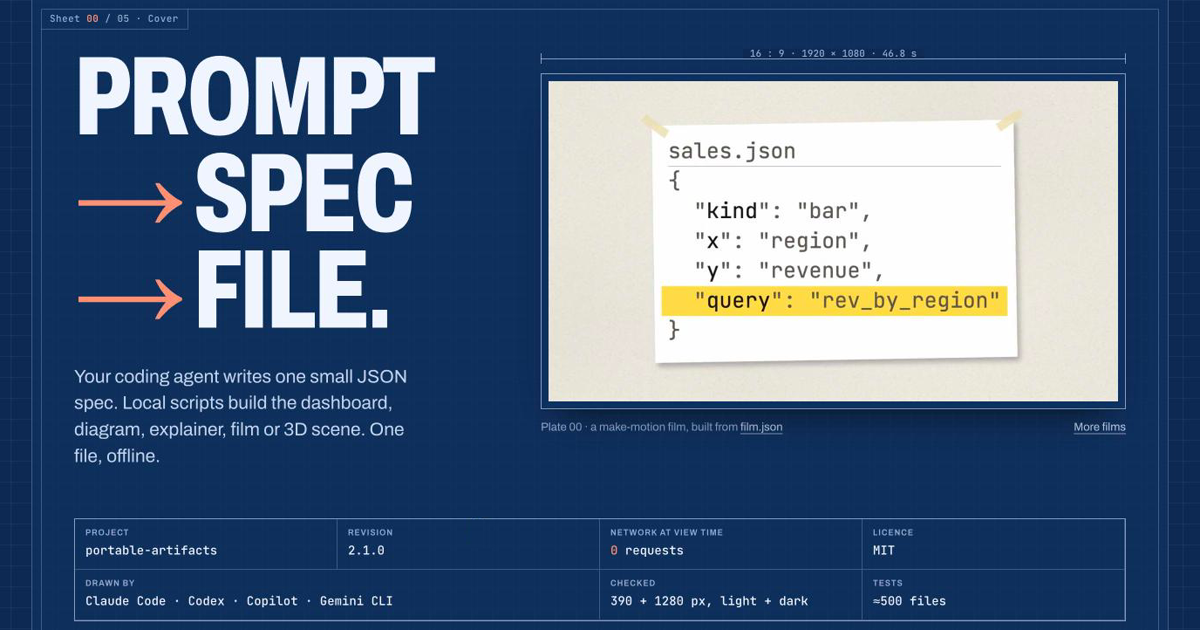
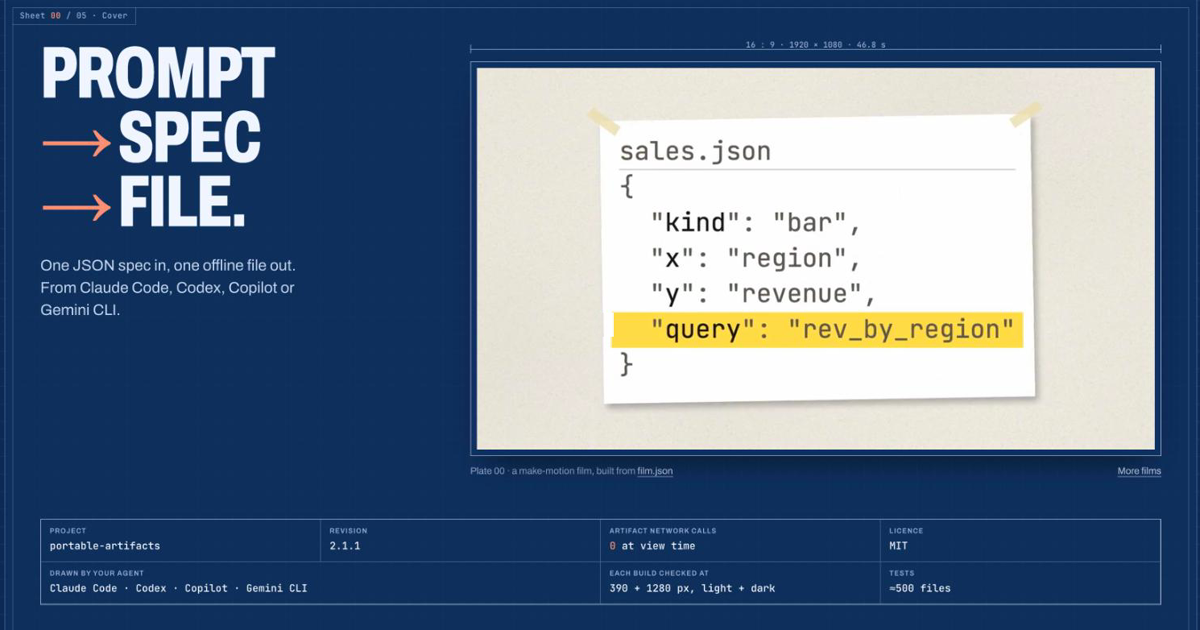
fix(site): finish-review pass on the cover and register
The cover names the agent hosts in the first viewport and the plate is
now louder than the title. Title-block cells read as claims about the
artifacts. Dashboards are labelled sample data. The register band gains
the explainer tile. Narrow screens keep the sheet index as a second
row. Spec lines are buttons with aria-pressed; group headings follow
the h1. og.png shows revision 2.1.1.

diff --git a/docs/index.html b/docs/index.html
@@ -72,7 +72,7 @@ leader lines; seed 149445c2.
           <span><span class="arrow" aria-hidden="true">&rarr;</span>Spec</span>
           <span><span class="arrow" aria-hidden="true">&rarr;</span>File.</span>
         </h1>
-        <p class="lede">Your coding agent writes one small JSON spec. Local scripts build the dashboard, diagram, explainer, film or 3D scene. One file, offline.</p>
+        <p class="lede">One JSON spec in, one offline file out.<br>From Claude Code, Codex, Copilot or Gemini CLI.</p>
       </div>
 
       <figure class="plate">
@@ -93,14 +93,14 @@ leader lines; seed 149445c2.
         <div class="stamp-head"><span>Issued for install</span><span>MIT</span></div>
         <section id="quick-install" aria-label="Install">
           <div class="grp">
-            <h3>Claude Code</h3>
+            <h2 class="grp-h">Claude Code</h2>
             <div class="code cmds">
               <div class="cl"><code class="ct">/plugin marketplace add abhijitbansal/portable-artifacts</code><button class="copy" type="button" data-copy="/plugin marketplace add abhijitbansal/portable-artifacts">copy</button></div>
               <div class="cl"><code class="ct">/plugin install portable-artifacts@portable-artifacts</code><button class="copy" type="button" data-copy="/plugin install portable-artifacts@portable-artifacts">copy</button></div>
             </div>
           </div>
           <div class="grp">
-            <h3>Codex, Copilot, Gemini CLI and others</h3>
+            <h2 class="grp-h">Codex, Copilot, Gemini CLI and others</h2>
             <div class="code cmds">
               <div class="cl"><code class="ct">npx skills add abhijitbansal/portable-artifacts --skill make-dashboard make-diagram make-explainer make-motion make-scene</code><button class="copy" type="button" data-copy="npx skills add abhijitbansal/portable-artifacts --skill make-dashboard make-diagram make-explainer make-motion make-scene">copy</button></div>
             </div>
@@ -113,10 +113,10 @@ leader lines; seed 149445c2.
     <dl class="tblock">
       <div><dt>Project</dt><dd>portable-artifacts</dd></div>
       <div><dt>Revision</dt><dd>2.1.1</dd></div>
-      <div><dt>Network at view time</dt><dd><span class="z">0</span> requests</dd></div>
+      <div><dt>Artifact network calls</dt><dd><span class="z">0</span> at view time</dd></div>
       <div><dt>Licence</dt><dd>MIT</dd></div>
-      <div class="wide"><dt>Drawn by</dt><dd>Claude Code · Codex · Copilot · Gemini CLI</dd></div>
-      <div><dt>Checked</dt><dd>390 + 1280 px, light + dark</dd></div>
+      <div class="wide"><dt>Drawn by your agent</dt><dd>Claude Code · Codex · Copilot · Gemini CLI</dd></div>
+      <div><dt>Each build checked at</dt><dd>390 + 1280 px, light + dark</dd></div>
       <div><dt>Tests</dt><dd>&asymp;500 files</dd></div>
     </dl>
   </section>
@@ -135,14 +135,14 @@ leader lines; seed 149445c2.
         <div class="spec-head"><span>dashboard.json · 3.1 KB</span><a href="showcase/portable-artifacts/gallery/product-performance/dashboard.json">full spec</a></div>
         <ol aria-label="Excerpt of dashboard.json. Lines with a number point at the dashboard.">
           <li>{</li>
-          <li tabindex="0" data-tag="1" aria-label="title: Product performance, the page title">  <span class="k">"title"</span>: <span class="s">"Product performance"</span>,</li>
+          <li tabindex="0" role="button" aria-pressed="false" data-tag="1" aria-label="title: Product performance, the page title">  <span class="k">"title"</span>: <span class="s">"Product performance"</span>,</li>
           <li>  <span class="k">"sources"</span>: { <span class="k">"sales"</span>: { <span class="k">"type"</span>: <span class="s">"csv"</span>, … } },</li>
-          <li tabindex="0" data-tag="2" aria-label="query rev_by_product_region, shown under its chart">  <span class="k">"queries"</span>: { <span class="k">"rev_by_product_region"</span>:</li>
+          <li tabindex="0" role="button" aria-pressed="false" data-tag="2" aria-label="query rev_by_product_region, shown under its chart">  <span class="k">"queries"</span>: { <span class="k">"rev_by_product_region"</span>:</li>
           <li>    <span class="s">"SELECT product, region, SUM(amount) …"</span> },</li>
           <li>  <span class="k">"kpis"</span>: [</li>
-          <li tabindex="0" data-tag="3" aria-label="KPI Revenue, formatted as currency">    { <span class="k">"title"</span>: <span class="s">"Revenue"</span>, <span class="k">"format"</span>: <span class="s">"currency"</span> }, … ],</li>
+          <li tabindex="0" role="button" aria-pressed="false" data-tag="3" aria-label="KPI Revenue, formatted as currency">    { <span class="k">"title"</span>: <span class="s">"Revenue"</span>, <span class="k">"format"</span>: <span class="s">"currency"</span> }, … ],</li>
           <li>  <span class="k">"charts"</span>: [{</li>
-          <li tabindex="0" data-tag="4" aria-label="chart Revenue by product and region">    <span class="k">"title"</span>: <span class="s">"Revenue by product and region"</span>,</li>
+          <li tabindex="0" role="button" aria-pressed="false" data-tag="4" aria-label="chart Revenue by product and region">    <span class="k">"title"</span>: <span class="s">"Revenue by product and region"</span>,</li>
           <li>    <span class="k">"vegaLite"</span>: { <span class="k">"mark"</span>: <span class="s">"bar"</span>, … } }]</li>
           <li>}</li>
         </ol>
@@ -159,7 +159,7 @@ leader lines; seed 149445c2.
             <span class="tag" data-tag="4" style="left:32.5%;top:38.5%">4</span>
           </div>
         </div>
-        <figcaption><span>Plate 01 · Product performance</span><a href="showcase/portable-artifacts/gallery/product-performance/index.html">Open the live page</a></figcaption>
+        <figcaption><span>Plate 01 · Product performance, sample data</span><a href="showcase/portable-artifacts/gallery/product-performance/index.html">Open the live page</a></figcaption>
       </figure>
     </div>
     <dl class="tblock sk-facts">
@@ -182,15 +182,15 @@ leader lines; seed 149445c2.
         <div class="spec-head"><span>diagram.json · 3.2 KB</span><a href="showcase/portable-artifacts/gallery/cloud-architecture/diagram.json">full spec</a></div>
         <ol aria-label="Excerpt of diagram.json. Lines with a number point at the diagram.">
           <li>{</li>
-          <li tabindex="0" data-tag="1" aria-label="title: Orders across two clouds">  <span class="k">"title"</span>: <span class="s">"Orders across two clouds"</span>,</li>
+          <li tabindex="0" role="button" aria-pressed="false" data-tag="1" aria-label="title: Orders across two clouds">  <span class="k">"title"</span>: <span class="s">"Orders across two clouds"</span>,</li>
           <li>  <span class="k">"type"</span>: <span class="s">"architecture"</span>,</li>
           <li>  <span class="k">"groups"</span>: [ …,</li>
-          <li tabindex="0" data-tag="2" aria-label="group Google Cloud">    { <span class="k">"id"</span>: <span class="s">"gcp"</span>, <span class="k">"label"</span>: <span class="s">"Google Cloud"</span> } ],</li>
+          <li tabindex="0" role="button" aria-pressed="false" data-tag="2" aria-label="group Google Cloud">    { <span class="k">"id"</span>: <span class="s">"gcp"</span>, <span class="k">"label"</span>: <span class="s">"Google Cloud"</span> } ],</li>
           <li>  <span class="k">"nodes"</span>: [ …,</li>
-          <li tabindex="0" data-tag="3" aria-label="node Invoice queue, a queue">    { <span class="k">"label"</span>: <span class="s">"Invoice queue"</span>, <span class="k">"kind"</span>: <span class="s">"queue"</span> },</li>
-          <li tabindex="0" data-tag="4" aria-label="node Invoice service on Google Cloud">    { <span class="k">"label"</span>: <span class="s">"Invoice service"</span>, <span class="k">"group"</span>: <span class="s">"gcp"</span> } ],</li>
+          <li tabindex="0" role="button" aria-pressed="false" data-tag="3" aria-label="node Invoice queue, a queue">    { <span class="k">"label"</span>: <span class="s">"Invoice queue"</span>, <span class="k">"kind"</span>: <span class="s">"queue"</span> },</li>
+          <li tabindex="0" role="button" aria-pressed="false" data-tag="4" aria-label="node Invoice service on Google Cloud">    { <span class="k">"label"</span>: <span class="s">"Invoice service"</span>, <span class="k">"group"</span>: <span class="s">"gcp"</span> } ],</li>
           <li>  <span class="k">"stories"</span>: [ … <span class="k">"beats"</span>: [ …,</li>
-          <li tabindex="0" data-tag="5" aria-label="story beat The queue hands over">    { <span class="k">"title"</span>: <span class="s">"The queue hands over"</span> } ]</li>
+          <li tabindex="0" role="button" aria-pressed="false" data-tag="5" aria-label="story beat The queue hands over">    { <span class="k">"title"</span>: <span class="s">"The queue hands over"</span> } ]</li>
           <li>}</li>
         </ol>
         <p class="spec-note">No coordinates: ELK lays it out.</p>
@@ -230,13 +230,13 @@ leader lines; seed 149445c2.
         <div class="spec-head"><span>explainer.json · 2.9 KB</span><a href="showcase/portable-artifacts/gallery/how-it-works/explainer.json">full spec</a></div>
         <ol aria-label="Excerpt of explainer.json. Lines with a number point at the page.">
           <li>{</li>
-          <li tabindex="0" data-tag="1" aria-label="title of the page">  <span class="k">"title"</span>: <span class="s">"How portable-artifacts turns …"</span>,</li>
-          <li tabindex="0" data-tag="2" aria-label="theme dusk, which draws the title art">  <span class="k">"theme"</span>: <span class="s">"dusk"</span>,</li>
+          <li tabindex="0" role="button" aria-pressed="false" data-tag="1" aria-label="title of the page">  <span class="k">"title"</span>: <span class="s">"How portable-artifacts turns …"</span>,</li>
+          <li tabindex="0" role="button" aria-pressed="false" data-tag="2" aria-label="theme dusk, which draws the title art">  <span class="k">"theme"</span>: <span class="s">"dusk"</span>,</li>
           <li>  <span class="k">"meta"</span>: {</li>
-          <li tabindex="0" data-tag="3" aria-label="meta date and status chips">    <span class="k">"date"</span>: <span class="s">"2026-11-20"</span>, <span class="k">"status"</span>: <span class="s">"Release 2.1.0"</span> },</li>
+          <li tabindex="0" role="button" aria-pressed="false" data-tag="3" aria-label="meta date and status chips">    <span class="k">"date"</span>: <span class="s">"2026-11-20"</span>, <span class="k">"status"</span>: <span class="s">"Release 2.1.0"</span> },</li>
           <li>  <span class="k">"sections"</span>: [{</li>
-          <li tabindex="0" data-tag="4" aria-label="a tldr section labelled The idea">    <span class="k">"type"</span>: <span class="s">"tldr"</span>, <span class="k">"label"</span>: <span class="s">"The idea"</span>,</li>
-          <li tabindex="0" data-tag="5" aria-label="the section's supporting points">    <span class="k">"points"</span>: [ <span class="s">"Five skills: dashboards, …"</span>, … ]</li>
+          <li tabindex="0" role="button" aria-pressed="false" data-tag="4" aria-label="a tldr section labelled The idea">    <span class="k">"type"</span>: <span class="s">"tldr"</span>, <span class="k">"label"</span>: <span class="s">"The idea"</span>,</li>
+          <li tabindex="0" role="button" aria-pressed="false" data-tag="5" aria-label="the section's supporting points">    <span class="k">"points"</span>: [ <span class="s">"Five skills: dashboards, …"</span>, … ]</li>
           <li>  }, … ]</li>
           <li>}</li>
         </ol>
@@ -278,10 +278,10 @@ leader lines; seed 149445c2.
         <ol aria-label="Excerpt of film.json. Lines with a number jump the film to that shot.">
           <li>{ <span class="k">"version"</span>: 2, <span class="k">"look"</span>: <span class="s">"poster"</span>, <span class="k">"format"</span>: <span class="s">"16:9"</span>,</li>
           <li>  <span class="k">"shots"</span>: [</li>
-          <li tabindex="0" data-tag="1" data-t="0.4" aria-label="shot idea, a statement; jumps the film to 0 seconds">    { <span class="k">"id"</span>: <span class="s">"idea"</span>, <span class="k">"show"</span>: <span class="s">"statement"</span> },</li>
-          <li tabindex="0" data-tag="2" data-t="3.8" aria-label="shot flow, a diagram; jumps to 4 seconds">    { <span class="k">"id"</span>: <span class="s">"flow"</span>, <span class="k">"show"</span>: <span class="s">"diagram"</span> },</li>
-          <li tabindex="0" data-tag="3" data-t="8.4" aria-label="shot shot, a code card; jumps to 8 seconds">    { <span class="k">"id"</span>: <span class="s">"shot"</span>, <span class="k">"show"</span>: <span class="s">"code"</span> },</li>
-          <li tabindex="0" data-tag="4" data-t="12.4" aria-label="shot close, the end card; jumps to 12 seconds">    { <span class="k">"id"</span>: <span class="s">"close"</span>, <span class="k">"show"</span>: <span class="s">"end"</span>,</li>
+          <li tabindex="0" role="button" aria-pressed="false" data-tag="1" data-t="0.4" aria-label="shot idea, a statement; jumps the film to 0 seconds">    { <span class="k">"id"</span>: <span class="s">"idea"</span>, <span class="k">"show"</span>: <span class="s">"statement"</span> },</li>
+          <li tabindex="0" role="button" aria-pressed="false" data-tag="2" data-t="3.8" aria-label="shot flow, a diagram; jumps to 4 seconds">    { <span class="k">"id"</span>: <span class="s">"flow"</span>, <span class="k">"show"</span>: <span class="s">"diagram"</span> },</li>
+          <li tabindex="0" role="button" aria-pressed="false" data-tag="3" data-t="8.4" aria-label="shot shot, a code card; jumps to 8 seconds">    { <span class="k">"id"</span>: <span class="s">"shot"</span>, <span class="k">"show"</span>: <span class="s">"code"</span> },</li>
+          <li tabindex="0" role="button" aria-pressed="false" data-tag="4" data-t="12.4" aria-label="shot close, the end card; jumps to 12 seconds">    { <span class="k">"id"</span>: <span class="s">"close"</span>, <span class="k">"show"</span>: <span class="s">"end"</span>,</li>
           <li>      <span class="k">"say"</span>: <span class="s">"Your first film is one file away."</span> }</li>
           <li>  ]</li>
           <li>}</li>
@@ -326,11 +326,11 @@ leader lines; seed 149445c2.
         <ol aria-label="Excerpt of scene.json. Lines with a number point at the scene.">
           <li>{</li>
           <li>  <span class="k">"title"</span>: <span class="s">"Commits per folder, last 6 weeks"</span>,</li>
-          <li tabindex="0" data-tag="1" aria-label="world: city, one tower per row">  <span class="k">"world"</span>: <span class="s">"city"</span>,</li>
+          <li tabindex="0" role="button" aria-pressed="false" data-tag="1" aria-label="world: city, one tower per row">  <span class="k">"world"</span>: <span class="s">"city"</span>,</li>
           <li>  <span class="k">"data"</span>: { <span class="k">"rows"</span>: [ …,</li>
-          <li tabindex="0" data-tag="2" aria-label="a row: group web, week 32, 22 commits">    { <span class="k">"group"</span>: <span class="s">"web"</span>, <span class="k">"t"</span>: <span class="s">"2026-W32"</span>, <span class="k">"value"</span>: 22 },</li>
+          <li tabindex="0" role="button" aria-pressed="false" data-tag="2" aria-label="a row: group web, week 32, 22 commits">    { <span class="k">"group"</span>: <span class="s">"web"</span>, <span class="k">"t"</span>: <span class="s">"2026-W32"</span>, <span class="k">"value"</span>: 22 },</li>
           <li>    … ] },</li>
-          <li tabindex="0" data-tag="3" aria-label="the camera tour">  <span class="k">"tour"</span>: [</li>
+          <li tabindex="0" role="button" aria-pressed="false" data-tag="3" aria-label="the camera tour">  <span class="k">"tour"</span>: [</li>
           <li>    { <span class="k">"title"</span>: <span class="s">"Web spikes in week 32"</span>, <span class="k">"focus"</span>: [<span class="s">"web"</span>] }</li>
           <li>  ]</li>
           <li>}</li>
@@ -368,7 +368,7 @@ leader lines; seed 149445c2.
       <ol>
         <li><b>Offline by construction</b><span>Every page carries <code>default-src 'none'</code>. Specs cannot name a remote URL.</span></li>
         <li><b>Spec in, file out</b><span>The model writes the spec. Scripts validate, lay out, render and check it.</span></li>
-        <li><b>Any agent</b><span>Claude Code, Codex, Copilot and Gemini CLI, from one installer.</span></li>
+        <li><b>Any agent</b><span>One set of skills for Claude Code, Codex, Copilot and Gemini CLI.</span></li>
         <li><b>Checked, not guessed</b><span>Builds are opened at phone and desktop width, light and dark, before you see them.</span></li>
         <li><b>Open source</b><span>MIT, built on DuckDB, Vega-Lite, ELK and three.js. <a href="https://github.com/abhijitbansal/portable-artifacts/blob/main/plugins/portable-artifacts/README.md#security-model">Security model</a>.</span></li>
       </ol>
@@ -379,12 +379,13 @@ leader lines; seed 149445c2.
   <section class="sheet" id="gallery" aria-labelledby="h-reg">
     <span class="sheet-no">Register</span>
     <div class="reg-intro">
-      <h2 class="title" id="h-reg" style="font-size:clamp(40px,6vw,84px)">The register</h2>
+      <h2 class="title reg-title" id="h-reg">The register</h2>
       <p>Every output on this site is real, built by the skills, and sits next to the spec that made it. <a href="gallery.html">Open the register</a>.</p>
     </div>
-    <div class="reg" style="margin-top:28px">
+    <div class="reg reg-band">
       <figure class="reg-item"><a class="thumb" href="gallery.html#dashboards"><img src="showcase/portable-artifacts/gallery/support-ops/thumb.jpg" width="1280" height="720" loading="lazy" alt="Support operations dashboard"></a><figcaption><span class="no">R-01</span><b>Dashboards</b></figcaption></figure>
       <figure class="reg-item"><a class="thumb" href="gallery.html#diagrams"><img src="showcase/portable-artifacts/gallery/oauth-sequence/dusk/thumb.jpg" width="1280" height="720" loading="lazy" alt="Sign in with OAuth sequence diagram"></a><figcaption><span class="no">R-02</span><b>Diagrams</b></figcaption></figure>
+      <figure class="reg-item"><a class="thumb" href="gallery.html#explainers"><img src="showcase/portable-artifacts/gallery/plan-page/thumb.jpg" width="1280" height="720" loading="lazy" alt="A plan page reviewers answer on the page"></a><figcaption><span class="no">R-03</span><b>Explainers</b></figcaption></figure>
       <figure class="reg-item"><a class="thumb" href="gallery.html#films"><img src="media/thumbs/looks-marker.jpg" width="640" height="360" loading="lazy" alt="Film in the hand-drawn marker look"></a><figcaption><span class="no">R-04</span><b>Films</b></figcaption></figure>
       <figure class="reg-item"><a class="thumb" href="gallery.html#scenes"><img src="showcase/portable-artifacts/gallery/scene-galaxy/dusk/thumb.jpg" width="1280" height="720" loading="lazy" alt="Galaxy 3D scene"></a><figcaption><span class="no">R-05</span><b>3D scenes</b></figcaption></figure>
     </div>

diff --git a/docs/gallery.html b/docs/gallery.html
@@ -54,10 +54,10 @@
     <section class="reg-group" id="dashboards" aria-labelledby="g-dash">
       <h2 id="g-dash">make-dashboard <small>R-01 · 4 plates</small></h2>
       <div class="reg">
-        <figure class="reg-item"><a class="thumb" href="showcase/portable-artifacts/gallery/product-performance/index.html"><img src="showcase/portable-artifacts/gallery/product-performance/thumb.jpg" width="1280" height="720" loading="lazy" alt="Product performance dashboard"></a><figcaption><b>Product performance</b><span class="no">R-01.1</span><span class="links"><a href="showcase/portable-artifacts/gallery/product-performance/index.html">page</a><a href="showcase/portable-artifacts/gallery/product-performance/dashboard.json">spec</a><a href="showcase/portable-artifacts/gallery/product-performance/prompt.txt">prompt</a></span></figcaption></figure>
-        <figure class="reg-item"><a class="thumb" href="showcase/portable-artifacts/gallery/support-ops/index.html"><img src="showcase/portable-artifacts/gallery/support-ops/thumb.jpg" width="1280" height="720" loading="lazy" alt="Support operations dashboard"></a><figcaption><b>Support operations</b><span class="no">R-01.2</span><span class="links"><a href="showcase/portable-artifacts/gallery/support-ops/index.html">page</a><a href="showcase/portable-artifacts/gallery/support-ops/dashboard.json">spec</a><a href="showcase/portable-artifacts/gallery/support-ops/prompt.txt">prompt</a></span></figcaption></figure>
-        <figure class="reg-item"><a class="thumb" href="showcase/portable-artifacts/gallery/traffic-deep-dive/index.html"><img src="showcase/portable-artifacts/gallery/traffic-deep-dive/thumb.jpg" width="1280" height="720" loading="lazy" alt="Web traffic deep dive dashboard"></a><figcaption><b>Web traffic deep dive</b><span class="no">R-01.3</span><span class="links"><a href="showcase/portable-artifacts/gallery/traffic-deep-dive/index.html">page</a><a href="showcase/portable-artifacts/gallery/traffic-deep-dive/dashboard.json">spec</a><a href="showcase/portable-artifacts/gallery/traffic-deep-dive/prompt.txt">prompt</a></span></figcaption></figure>
-        <figure class="reg-item"><a class="thumb" href="showcase/portable-artifacts/growth-dashboard.html"><img src="media/thumbs/growth-dashboard.jpg" width="640" height="360" loading="lazy" alt="Growth dashboard built from two CSV files"></a><figcaption><b>Growth, from two CSV files</b><span class="no">R-01.4</span><span class="links"><a href="showcase/portable-artifacts/growth-dashboard.html">page</a><a href="showcase/portable-artifacts/growth-dashboard.json">spec</a><a href="showcase/portable-artifacts/growth-dashboard.prompt.txt">prompt</a></span></figcaption></figure>
+        <figure class="reg-item"><a class="thumb" href="showcase/portable-artifacts/gallery/product-performance/index.html"><img src="showcase/portable-artifacts/gallery/product-performance/thumb.jpg" width="1280" height="720" loading="lazy" alt="Product performance dashboard"></a><figcaption><b>Product performance · sample data</b><span class="no">R-01.1</span><span class="links"><a href="showcase/portable-artifacts/gallery/product-performance/index.html">page</a><a href="showcase/portable-artifacts/gallery/product-performance/dashboard.json">spec</a><a href="showcase/portable-artifacts/gallery/product-performance/prompt.txt">prompt</a></span></figcaption></figure>
+        <figure class="reg-item"><a class="thumb" href="showcase/portable-artifacts/gallery/support-ops/index.html"><img src="showcase/portable-artifacts/gallery/support-ops/thumb.jpg" width="1280" height="720" loading="lazy" alt="Support operations dashboard"></a><figcaption><b>Support operations · sample data</b><span class="no">R-01.2</span><span class="links"><a href="showcase/portable-artifacts/gallery/support-ops/index.html">page</a><a href="showcase/portable-artifacts/gallery/support-ops/dashboard.json">spec</a><a href="showcase/portable-artifacts/gallery/support-ops/prompt.txt">prompt</a></span></figcaption></figure>
+        <figure class="reg-item"><a class="thumb" href="showcase/portable-artifacts/gallery/traffic-deep-dive/index.html"><img src="showcase/portable-artifacts/gallery/traffic-deep-dive/thumb.jpg" width="1280" height="720" loading="lazy" alt="Web traffic deep dive dashboard"></a><figcaption><b>Web traffic deep dive · sample data</b><span class="no">R-01.3</span><span class="links"><a href="showcase/portable-artifacts/gallery/traffic-deep-dive/index.html">page</a><a href="showcase/portable-artifacts/gallery/traffic-deep-dive/dashboard.json">spec</a><a href="showcase/portable-artifacts/gallery/traffic-deep-dive/prompt.txt">prompt</a></span></figcaption></figure>
+        <figure class="reg-item"><a class="thumb" href="showcase/portable-artifacts/growth-dashboard.html"><img src="media/thumbs/growth-dashboard.jpg" width="640" height="360" loading="lazy" alt="Growth dashboard built from two CSV files"></a><figcaption><b>Growth, from two CSV files · sample data</b><span class="no">R-01.4</span><span class="links"><a href="showcase/portable-artifacts/growth-dashboard.html">page</a><a href="showcase/portable-artifacts/growth-dashboard.json">spec</a><a href="showcase/portable-artifacts/growth-dashboard.prompt.txt">prompt</a></span></figcaption></figure>
       </div>
     </section>
 

diff --git a/docs/assets/pa.css b/docs/assets/pa.css
@@ -159,13 +159,13 @@ code, pre, kbd { font-family: var(--mono); font-size: 0.86em; }
 /* ---------- cover ---------- */
 .cover { padding-top: clamp(44px, 7vw, 88px); }
 .cover-grid {
-  display: grid; gap: clamp(28px, 4vw, 56px);
-  grid-template-columns: minmax(0, 5fr) minmax(0, 7fr);
+  display: grid; gap: clamp(28px, 4vw, 48px);
+  grid-template-columns: minmax(0, 4fr) minmax(0, 7fr);
   align-items: start;
 }
 .title {
   margin: 0;
-  font: 800 clamp(52px, 9.2vw, 132px)/0.86 var(--display);
+  font: 800 clamp(48px, 7.2vw, 100px)/0.88 var(--display);
   font-stretch: 68%;
   letter-spacing: -0.02em;
   text-transform: uppercase;
@@ -199,7 +199,7 @@ code, pre, kbd { font-family: var(--mono); font-size: 0.86em; }
   content: ""; position: absolute; left: 0; right: 0; top: 5px; height: 12px;
   border-left: var(--rule) solid var(--line-strong); border-right: var(--rule) solid var(--line-strong);
 }
-.dim span { position: relative; z-index: 1; display: table; margin: 0 auto; padding: 0 8px; background: var(--field); }
+.dim span { position: relative; z-index: 1; display: table; margin: 0 auto; padding: 0 8px; background: color-mix(in srgb, var(--sheet) 70%, var(--field)); }
 .plate figcaption {
   display: flex; flex-wrap: wrap; justify-content: space-between; gap: 6px 16px;
   margin-top: 10px; font-size: 13px; color: var(--ink-3);
@@ -236,7 +236,7 @@ code, pre, kbd { font-family: var(--mono); font-size: 0.86em; }
   font: 700 12px/1.2 var(--display); font-stretch: 85%; letter-spacing: 0.08em; text-transform: uppercase;
 }
 .stamp-head span:last-child { color: var(--red); }
-.stamp h3 { margin: 0; padding: 12px 12px 0; font: 600 13px/1 var(--text); color: var(--ink-2); }
+.stamp .grp-h { margin: 0; padding: 12px 12px 0; font: 600 13px/1 var(--text); color: var(--ink-2); }
 .code.cmds { padding: 8px 12px 12px; }
 .cl {
   display: flex; align-items: center; gap: 10px;
@@ -356,6 +356,8 @@ code, pre, kbd { font-family: var(--mono); font-size: 0.86em; }
 .reg-intro { display: flex; flex-wrap: wrap; justify-content: space-between; align-items: end; gap: 16px 32px; }
 .reg-intro h1 { margin: 0; font: 800 clamp(48px, 8vw, 112px)/0.88 var(--display); font-stretch: 68%; text-transform: uppercase; letter-spacing: -0.02em; }
 .reg-intro p { margin: 0; max-width: 40ch; color: var(--ink-2); }
+.reg-title { font-size: clamp(40px, 6vw, 84px); }
+.reg-band { margin-top: 28px; }
 .reg-group { margin-top: clamp(36px, 5vw, 64px); }
 .reg-group h2 {
   display: flex; align-items: baseline; gap: 14px; margin: 0 0 16px; padding-bottom: 10px;
@@ -389,8 +391,10 @@ code, pre, kbd { font-family: var(--mono); font-size: 0.86em; }
   .sk-grid .plate { order: -1; }
   .tblock, .sk-facts { grid-template-columns: repeat(2, minmax(0, 1fr)); }
   .foot .tblock { grid-template-columns: repeat(3, minmax(0, 1fr)); }
-  .sheets { display: none; }
+  .strip { flex-wrap: wrap; height: auto; padding-top: 10px; row-gap: 4px; }
   .tools { margin-left: auto; }
+  .sheets { order: 3; width: 100%; margin: 0 0 6px; }
+  html { scroll-padding-top: 104px; }
 }
 @media (max-width: 560px) {
   body { font-size: 16px; }

diff --git a/docs/assets/pa.js b/docs/assets/pa.js
@@ -175,7 +175,10 @@
     const clear = () => { svg.style.visibility = "hidden"; };
     const set = (n, animate = true) => {
       active = n;
-      lines.forEach((l) => l.classList.toggle("on", l.dataset.tag === n));
+      lines.forEach((l) => {
+        l.classList.toggle("on", l.dataset.tag === n);
+        l.setAttribute("aria-pressed", String(pinned != null && l.dataset.tag === pinned));
+      });
       tags.forEach((t) => t.classList.toggle("on", t.dataset.tag === n));
       if (n == null) { clear(); return; }
       draw(n, animate);

diff --git a/tests/pytest/test_portable_artifacts_page.py b/tests/pytest/test_portable_artifacts_page.py
@@ -154,7 +154,7 @@ def test_spec_lines_and_plate_tags_pair_up_on_every_sheet():
     for skill in SKILLS:
         sheet = _section(page, skill)
         assert "data-leader" in re.search(r'<section\b[^>]*\bid="%s"[^>]*>' % skill, page).group(0)
-        spec = sorted(re.findall(r'<li tabindex="0" data-tag="(\d+)"', sheet))
+        spec = sorted(re.findall(r'<li tabindex="0" role="button" aria-pressed="false" data-tag="(\d+)"', sheet))
         tags = sorted(re.findall(r'<span class="tag" data-tag="(\d+)"', sheet))
         assert spec and spec == tags, f"{skill}: spec lines {spec} vs plate tags {tags}"
 
